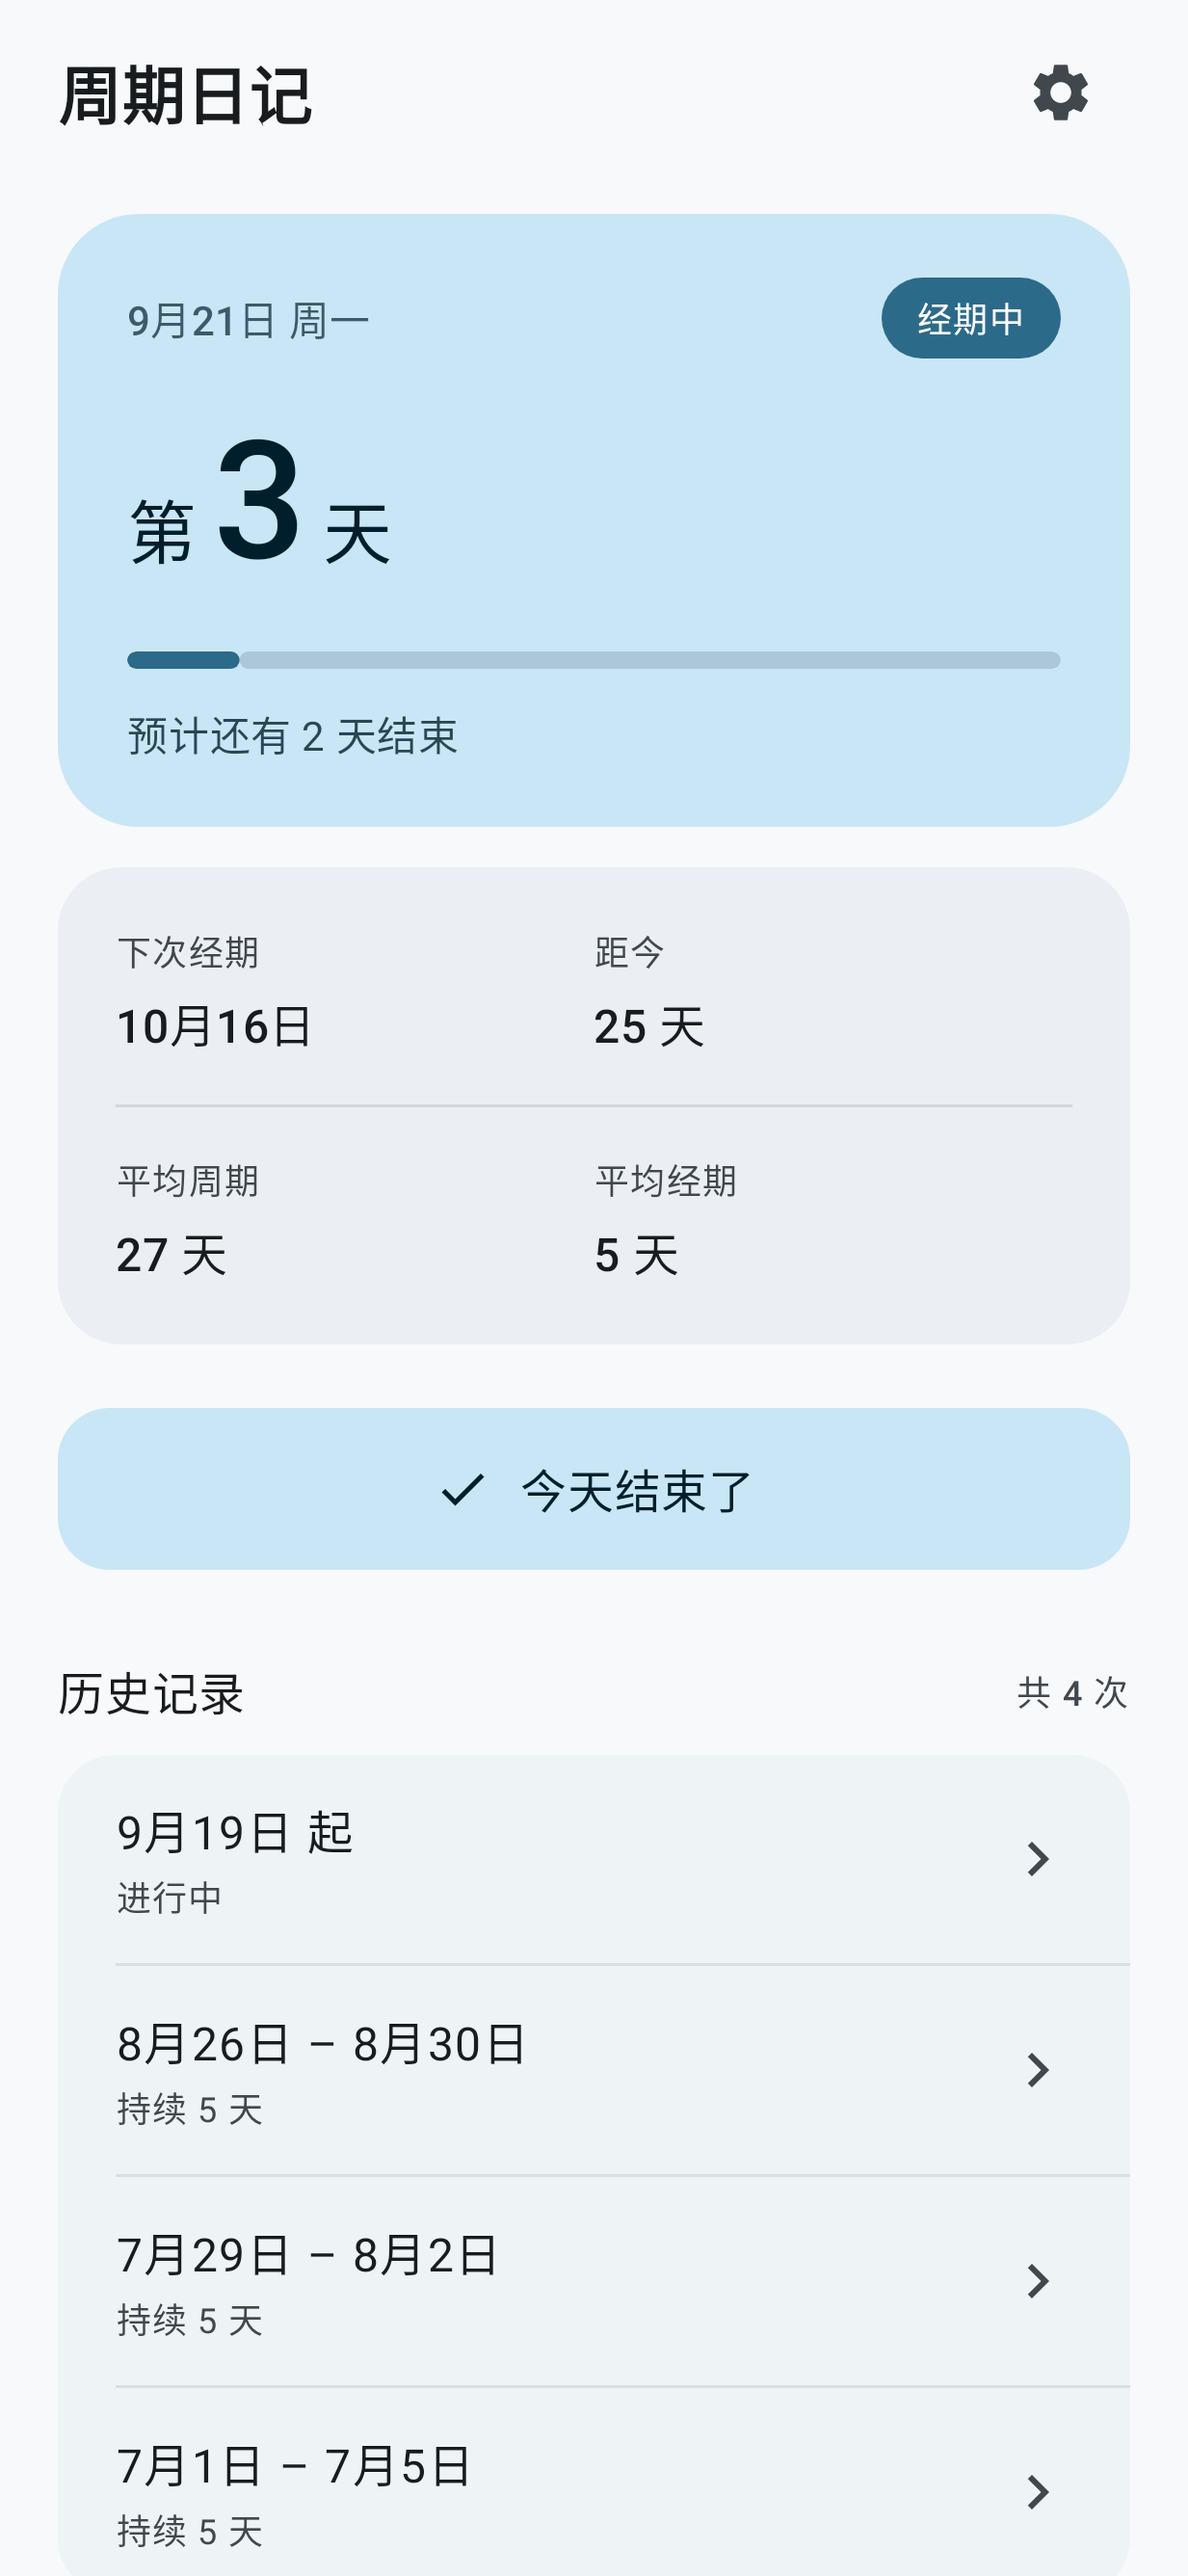
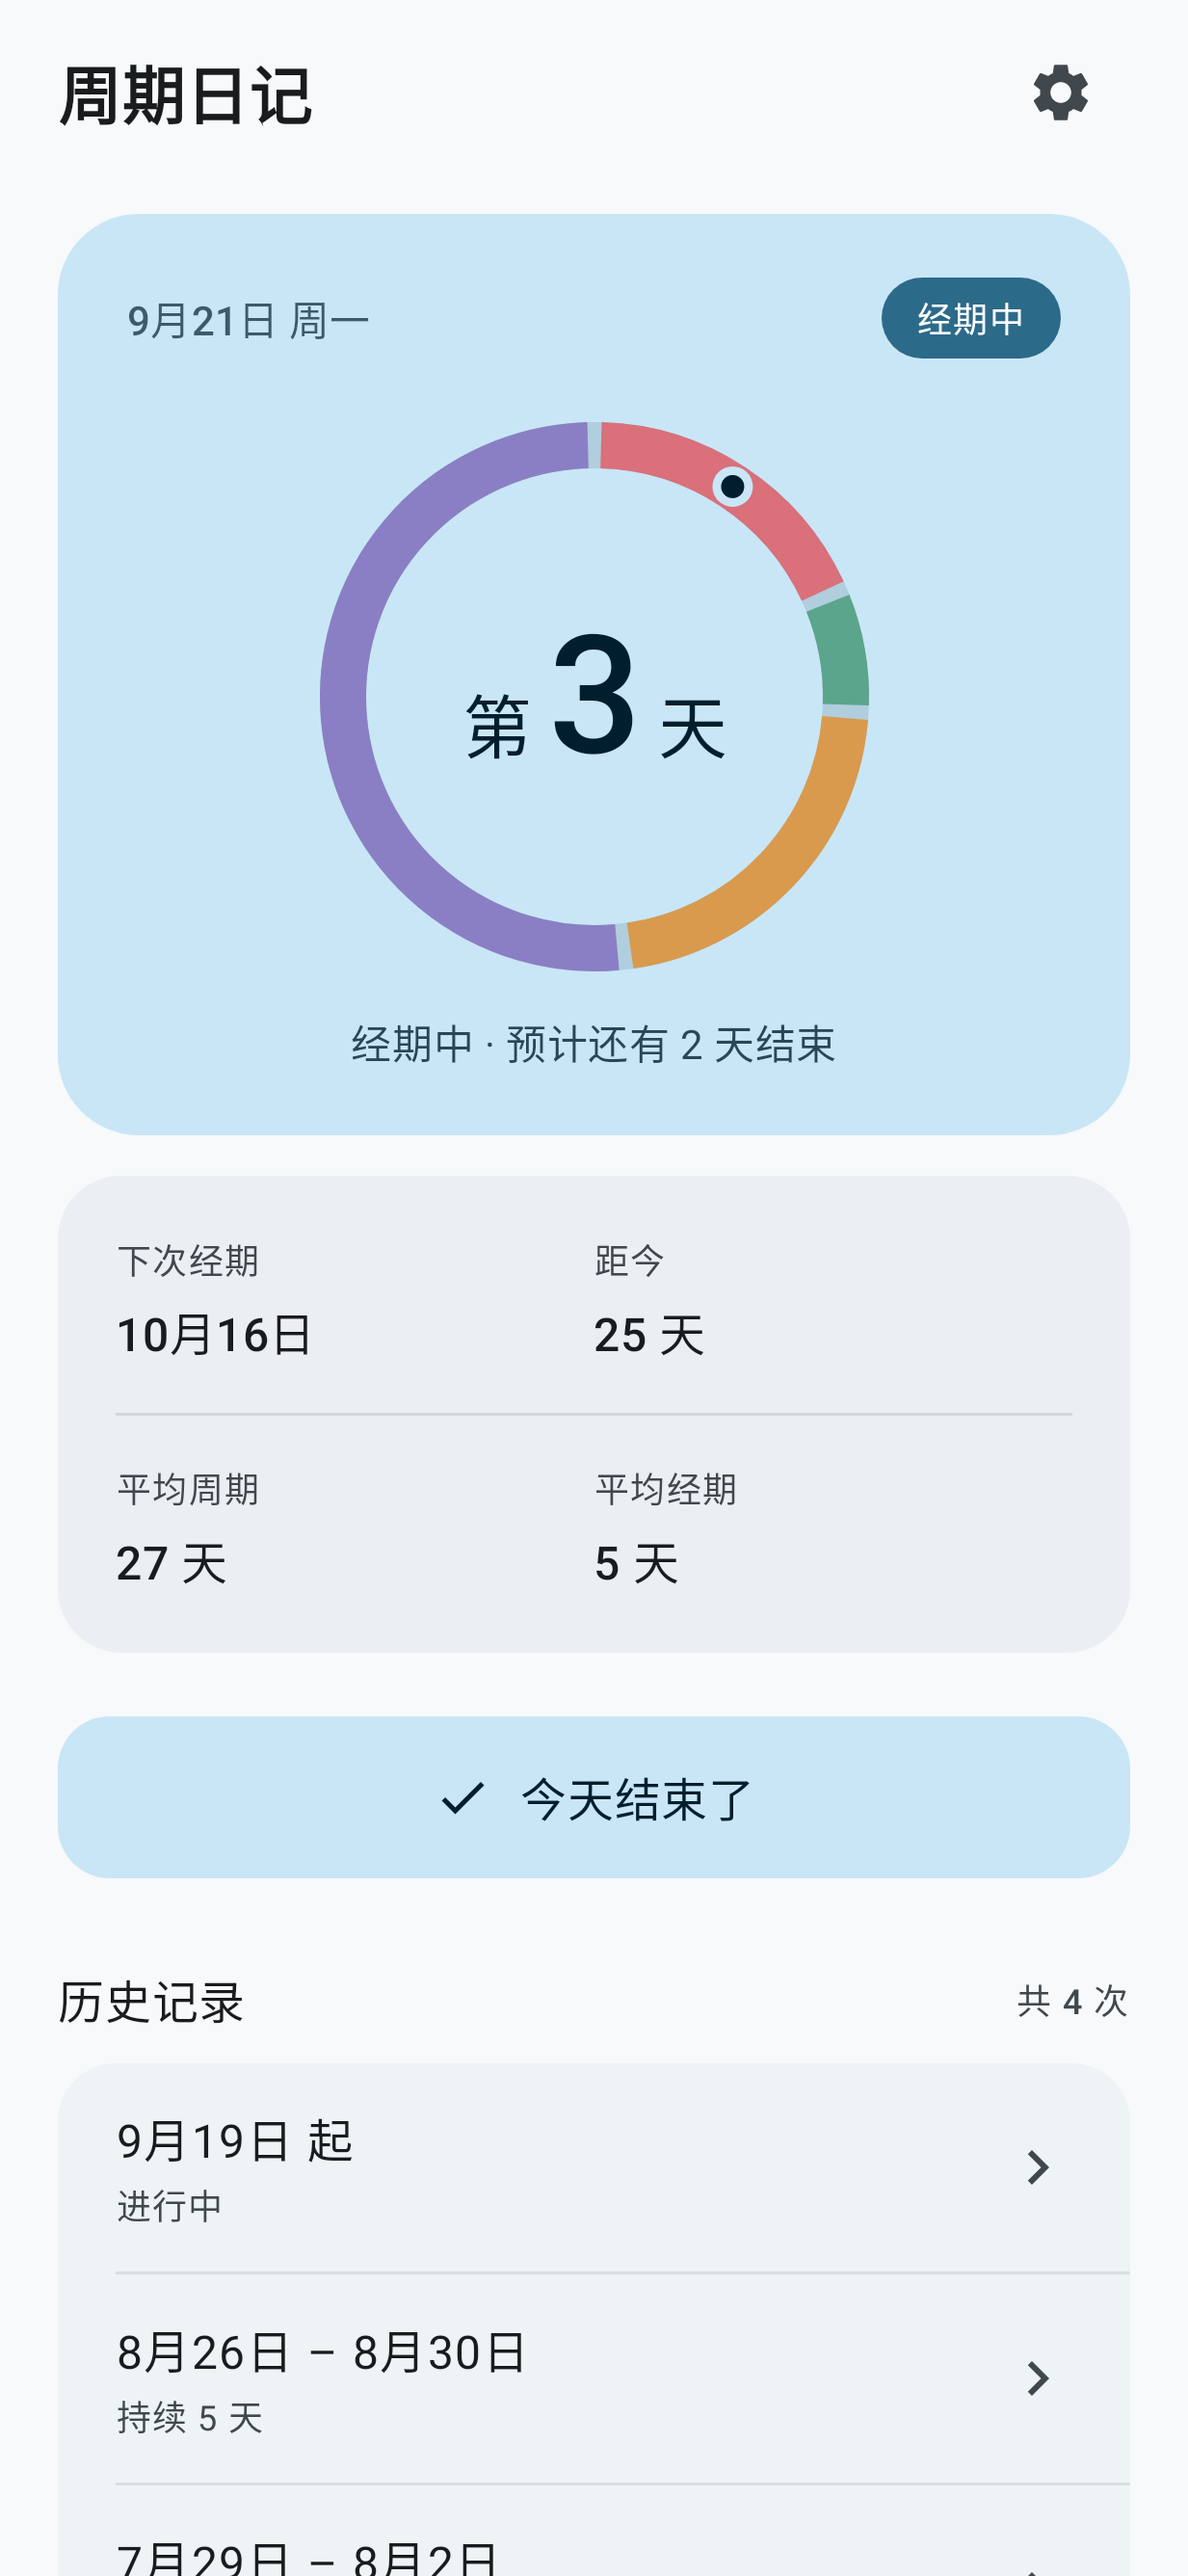
更新 README 与界面截图：反映 1.1 的环形周期图与生理阶段功能

diff --git a/README.md b/README.md
@@ -2,7 +2,7 @@
 
 一个只给一个人用的经期记录 App。干净、无广告、无账号、无联网、无通知、无后台服务。
 
-主页只有一屏：一眼看到今天是周期第几天、下次经期什么时候、一个按钮记录开始或结束。
+主页只有一屏：一眼看到今天是周期第几天、处在哪个阶段、下次经期什么时候、一个按钮记录开始或结束。
 
 <p align="center">
   <img src="docs/screenshots/01-home-on-period.png" width="24%" alt="经期中" />
@@ -20,10 +20,11 @@
 | 记录经期开始 | 主页唯一的按钮，点一下记下今天 |
 | 记录经期结束 | 同一个按钮，有未结束的记录时会变成「今天结束了」 |
 | 预测下次经期 | 取最近 6 次相邻开始日期间隔的平均值 |
-| 当前周期第几天 | 主页大字，从最近一次经期第一天算起 |
+| 当前周期第几天 | 环形周期图中心的大字，从最近一次经期第一天算起 |
+| 生理周期阶段 | 环形图按 经期 / 卵泡期 / 排卵期 / 黄体期 分段着色，环上一个小圆点标记今天，环下写明当前阶段 |
 | 改 / 删记录 | 点历史里任意一条，可改开始结束日期或删除 |
 
-刻意不做：通知提醒、账号、同步、导出、症状 / 心情 / 体温记录、图表、日历、广告、埋点。
+刻意不做：通知提醒、账号、同步、导出、症状 / 心情 / 体温记录、日历、统计图表、广告、埋点。
 
 ## 数据与隐私
 
@@ -37,7 +38,7 @@
 打包后的清单里会出现一条 `com.cyclediary.app.DYNAMIC_RECEIVER_NOT_EXPORTED_PERMISSION`，
 那是 AndroidX 自动注入的、App 定义给自己的签名级权限，不出现在系统权限页面，也不授予任何访问能力。
 
-## 预测规则
+## 预测与阶段规则
 
 写在 `domain/CycleMath.kt`，规则很简单，也刻意保守：
 
@@ -48,7 +49,15 @@
 - 超过预测日还没记录时显示「已经过了 N 天」，不伪造一个新日期
 - 平均经期长度只统计已结束的记录
 
-规则有测试兜着，见 `app/src/test/java/com/cyclediary/app/domain/PredictionTest.kt`。
+生理阶段按通用公式估算，不做个性化校准：
+
+- 排卵日 = 下次经期开始日前 14 天
+- 排卵期（易孕窗口）= 排卵日前 5 天到排卵日当天，共 6 天
+- 黄体期 = 排卵日次日到下次经期前一天；推迟的日子里黄体期就当被拉长了
+- 卵泡期 = 经期结束后到易孕窗口开始前
+- 周期太短、阶段互相挤压时，排卵日至少排在经期结束之后，保证四段不重叠
+
+规则有测试兜着，见 `app/src/test/.../domain/PredictionTest.kt` 和 `StageTest.kt`。
 
 ## 技术栈
 
@@ -125,7 +134,7 @@ app/src/main/java/com/cyclediary/app/
 │   ├── Model.kt               数据结构 + 数据清洗
 │   └── CycleStore.kt          JSON 读写
 ├── domain/
-│   └── CycleMath.kt           预测逻辑（唯一"算"东西的地方）
+│   └── CycleMath.kt           预测与阶段估算（唯一"算"东西的地方）
 └── ui/
     ├── CycleDiaryApp.kt       根组合，回前台时校准"今天"
     ├── HomeScreen.kt          主页
